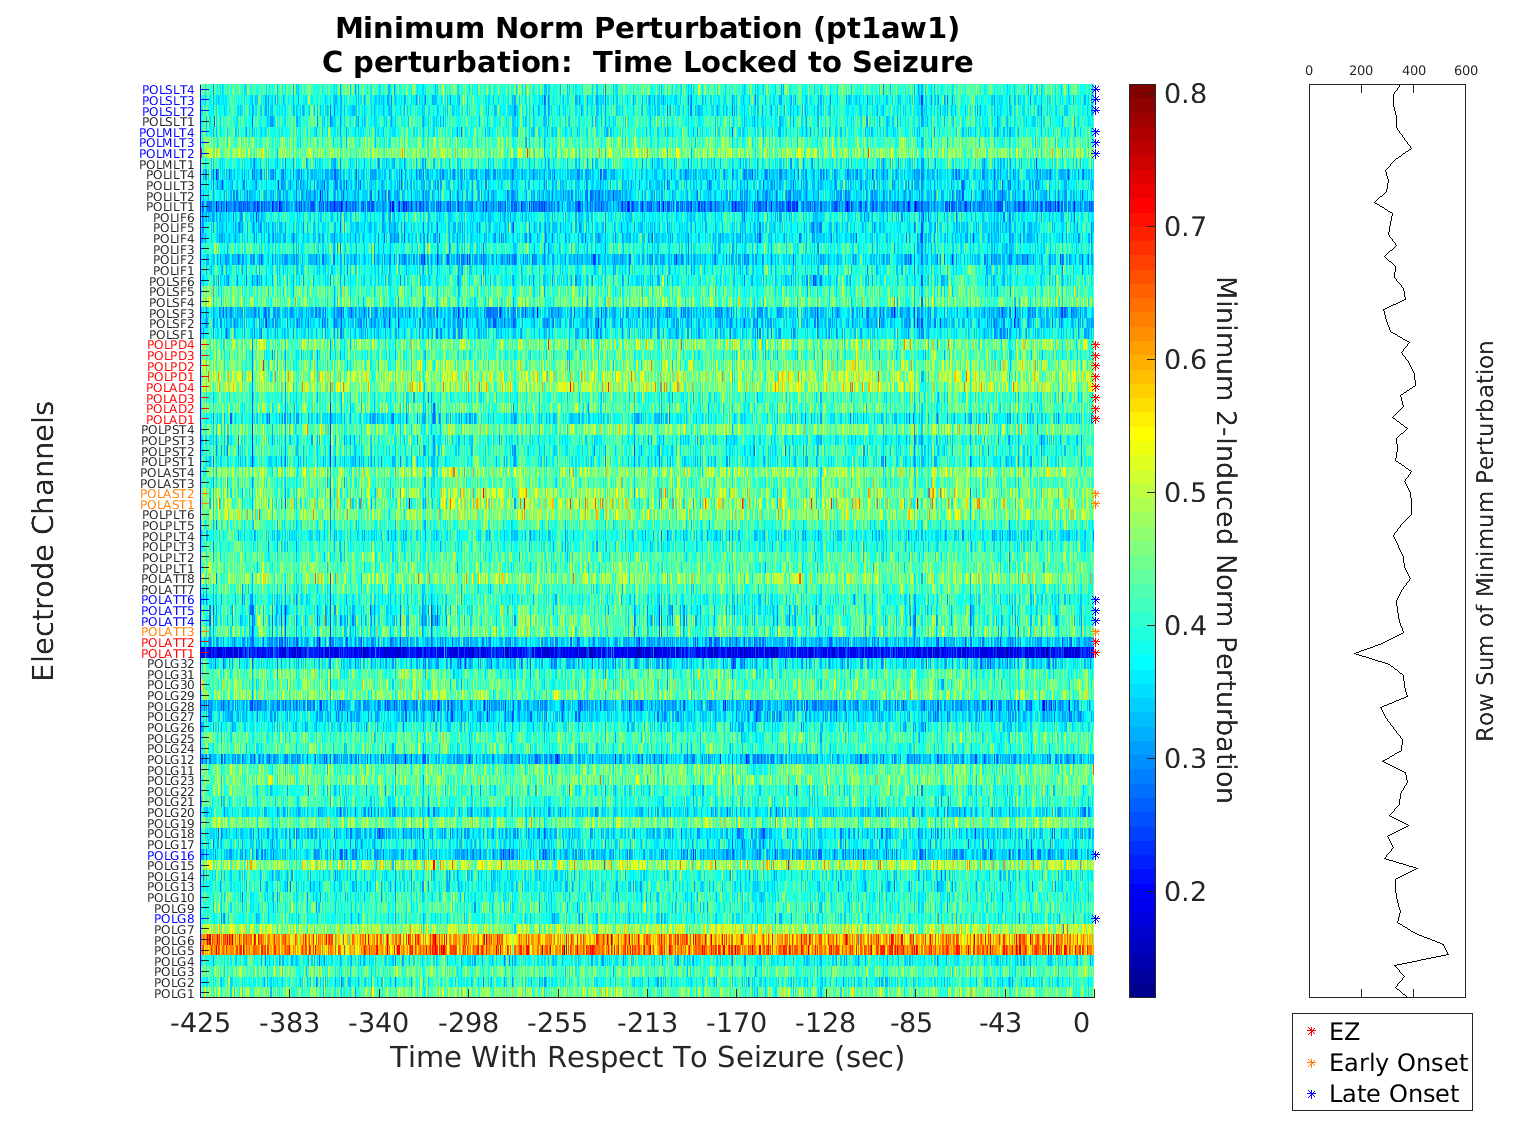
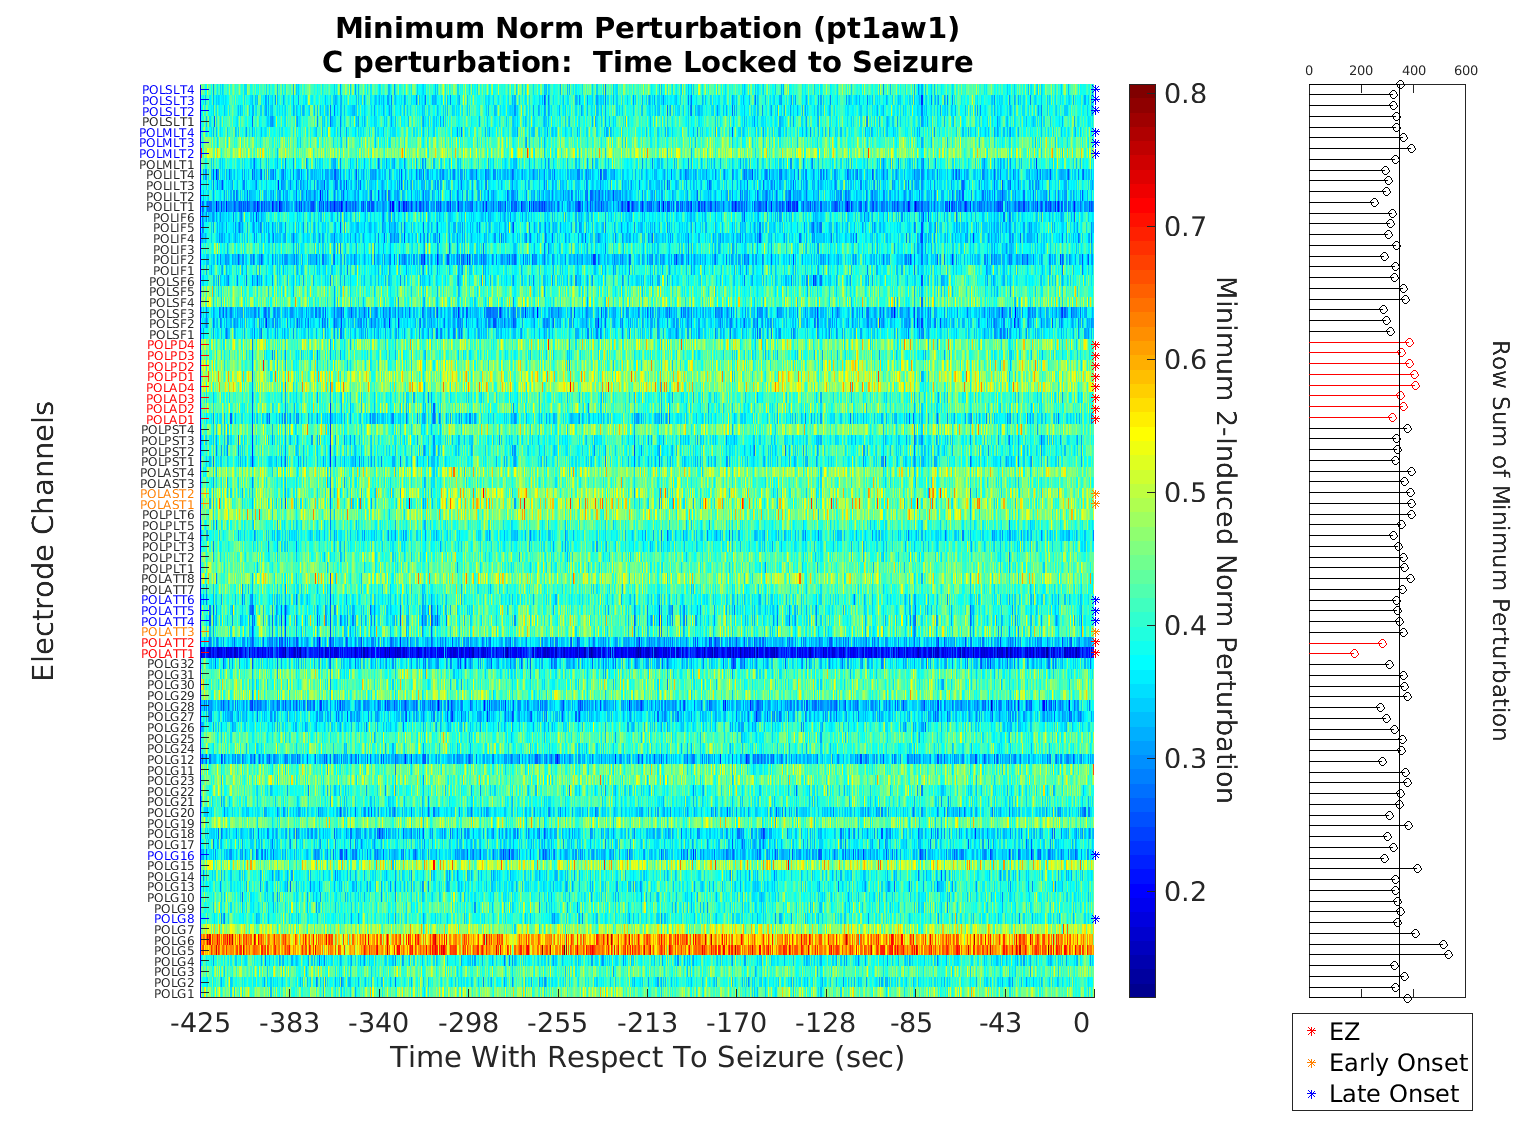
Adding run for pt8 NIH.

Changed region(s): [[0.8573, 0.0937, 0.9186, 0.8742], [0.9492, 0.3122, 0.9798, 0.6557]]

diff --git a/fragility_dataanalysis/fragility_library/plotting_library/plotMinimumPerturbation.m b/fragility_dataanalysis/fragility_library/plotting_library/plotMinimumPerturbation.m
@@ -93,17 +93,28 @@ function plotMinimumPerturbation(minPerturb_time_chan, clinicalIndices,...
     cbar.Label.Position = cbar.Label.Position + [1.2 0 0]; % moving it after resizing
                             
     % plot the second figure
+    xrange = 1:size(minPerturb_time_chan, 1);
+    xrange(ezone_indices) = [];
+    avge = mean(minpertsum);
+    
     secfig = subplot(4,6, [6,12,18,24]);
-%     plot(rowsum, 1:size(fragility_mat,1), 'r'); hold on; set(axes, 'box', 'off');
-    plot(minpertsum, 1:size(minPerturb_time_chan, 1), 'k'); 
+    stem(xrange, minpertsum(xrange), 'k'); hold on;
+    stem(ezone_indices, minpertsum(ezone_indices), 'r');
+    plot([1 size(minPerturb_time_chan, 1)], [avge avge], 'k', 'MarkerSize', 1.5);
     pos = get(gca, 'Position');
     pos(1) = pos(1) + xoffset;
-    ylim([1 size(minPerturb_time_chan,1)]);
-    ylabel('Row Sum of Minimum Perturbation', 'FontSize', FONTSIZE-3);
+    xlim([1 size(minPerturb_time_chan,1)]);
+    set(gca, 'Xdir', 'reverse');
     set(gca, 'Position', pos);
-    set(gca, 'YTick', []); set(gca, 'YTickLabel', []);
+    set(gca, 'XTick', []); set(gca, 'XTickLabel', []);
     set(gca, 'yaxislocation', 'right');
-    set(gca, 'XAxisLocation', 'top');
+    set(gca, 'XAxisLocation', 'bottom');
+    xlabel('Row Sum of Minimum Perturbation', 'FontSize', FONTSIZE-3);
+    view([90 90])
+    ax = gca;
+    ax.XLabel.Rotation = 270;
+    ax.XLabel.Position = ax.XLabel.Position + [0 700 0];
+
 %     rowsumleg = legend('Fragility Row Sum', 'Min Perturb Row Sum');
 %     
 %     rowsumleg.Position = [0.8493    0.9297    0.1114    0.0308];

diff --git a/fragility_dataanalysis/fragility_library/plotting_library/plotFragilityMetric.m b/fragility_dataanalysis/fragility_library/plotting_library/plotFragilityMetric.m
@@ -95,17 +95,27 @@ function plotFragilityMetric(fragility_mat, minPert_mat, clinicalIndices,...
     cbar.Label.Position = cbar.Label.Position + [1.2 0 0]; % moving it after resizing
                             
     % plot the second figure
+    xrange = 1:size(fragility_mat, 1);
+    xrange(ezone_indices) = [];
+    avge = mean(rowsum);
+    
     secfig = subplot(4,6, [6,12,18,24]);
-    plot(rowsum, 1:size(fragility_mat,1), 'r'); hold on; set(axes, 'box', 'off');
-%     plot(minpertsum, 1:size(minPert_mat, 1), 'k'); 
+    stem(xrange, rowsum(xrange), 'k'); hold on;
+    stem(ezone_indices, rowsum(ezone_indices), 'r');
+    plot([1 size(fragility_mat, 1)], [avge avge], 'k', 'MarkerSize', 1.5);
     pos = get(gca, 'Position');
     pos(1) = pos(1) + xoffset;
-    ylim([1 size(fragility_mat,1)]);
-    ylabel('Row Sum of Fragility', 'FontSize', FONTSIZE-3);
+    xlim([1 size(fragility_mat,1)]);
+    set(gca, 'Xdir', 'reverse');
     set(gca, 'Position', pos);
-    set(gca, 'YTick', []); set(gca, 'YTickLabel', []);
+    set(gca, 'XTick', []); set(gca, 'XTickLabel', []);
     set(gca, 'yaxislocation', 'right');
-    set(gca, 'XAxisLocation', 'top');
+    set(gca, 'XAxisLocation', 'bottom');
+    xlabel('Row Sum of Fragility Metric', 'FontSize', FONTSIZE-3);
+    view([90 90])
+    ax = gca;
+    ax.XLabel.Rotation = 270;
+    ax.XLabel.Position = ax.XLabel.Position + [0 700 0];
 %     rowsumleg = legend('Fragility Row Sum', 'Min Perturb Row Sum');
 %     
 %     rowsumleg.Position = [0.8493    0.9297    0.1114    0.0308];
